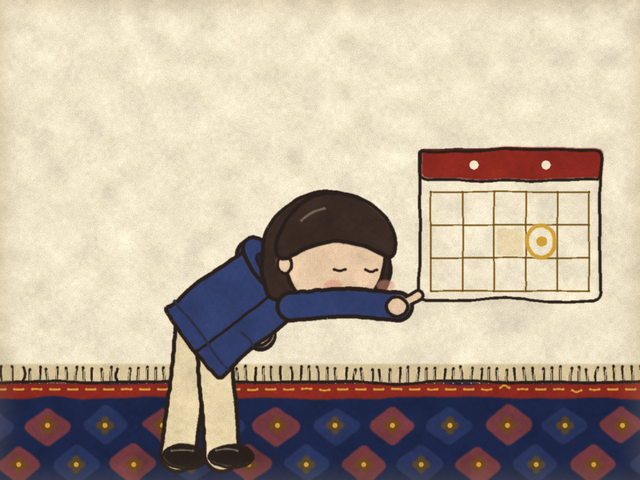
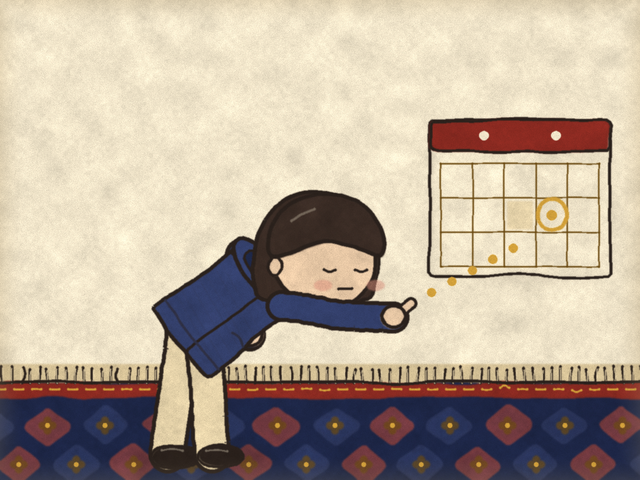
choice-maze: 場面・選択肢イラスト35枚
Claude-Session: https://claude.ai/code/session_01JTrs8fvjHSPRmaShvoSYrq

Changed region(s): [[0.2188, 0.2188, 0.9688, 1.0], [0.4688, 0.4375, 0.5, 0.4688]]

diff --git a/output/choice-maze/tools/draw_scenes.py b/output/choice-maze/tools/draw_scenes.py
@@ -800,12 +800,12 @@ class Person:
                 cv.line([(mx + d * 0.05 * H * math.cos(ang), my + 0.05 * H * math.sin(ang)),
                          (mx + d * 0.22 * H * math.cos(ang), my + 0.22 * H * math.sin(ang))], width=lw * 0.8)
         elif e == 'breath':
-            mx, my = x + d * 0.48 * H, y + 0.25 * H
-            for k, oy in enumerate((-0.12, 0.0, 0.12)):
-                pts = [(mx + d * (0.05 + i * 0.07) * H, my + oy * H * (1 + i * 0.25) + math.sin(i * 1.7) * 0.025 * H)
-                       for i in range(5)]
-                cv.line(pts, width=0.06 * H + 2 * lw * 0.6, color='sumi', amp=0.3)
-                cv.line(pts, width=0.06 * H, color='kinari', amp=0, raw=True)
+            mx, my = x + d * 0.62 * H, y + 0.28 * H
+            for k, oy in enumerate((-0.16, 0.0, 0.16)):
+                pts = [(mx + d * (0.02 + i * 0.1) * H, my + oy * H * (1 + i * 0.3) + math.sin(i * 1.9) * 0.03 * H)
+                       for i in range(6)]
+                cv.line(pts, width=0.07 * H + 2 * lw * 0.7, color='sumi', amp=0.3)
+                cv.line(pts, width=0.07 * H, color='kinari', amp=0, raw=True)
         elif e == 'moya':
             cx, cy = x + 0.1 * H, y - 0.85 * H
             blob = []
@@ -1310,12 +1310,13 @@ def scene_s2_2(path):
     ball(cv, 820, 660, 34, 'soccer')
     ball(cv, 470, 680, 30, 'basket')
     # tangled net heap
-    heap = [(760, 640), (780, 590), (830, 570), (880, 585), (905, 640)]
+    heap = [(740, 648), (770, 618), (820, 608), (880, 616), (930, 632), (920, 656), (760, 662)]
     cv.shape(heap, fill=mix('kinari', 'kinari2', 0.5), lw=5, amp=2.0)
-    for k in range(6):
-        cv.line([(770 + k * 24, 640), (800 + k * 18, 575)], width=2.5, color='kinink', amp=0.8)
-        cv.line([(765 + k * 22, 585 + k * 2), (900 - k * 4, 640 - k * 10)], width=2.5, color='kinink', amp=0.8)
-    cv.line(bez((900, 630), (940, 660), (980, 640)), width=4, color='kinink', amp=1)
+    for k in range(7):
+        cv.line([(752 + k * 26, 660), (772 + k * 24, 612)], width=2.5, color='kinink', amp=0.6)
+    for yy in (626, 642):
+        cv.line([(748, yy + 6), (924, yy)], width=2.5, color='kinink', amp=0.8)
+    cv.line(bez((925, 645), (960, 676), (1000, 660)), width=4, color='kinink', amp=1)
     # two teammates, arms crossed, worried, on the right
     cross = {'L': dict(hand=(0.55, 0.42), bend=0.2, front=True), 'R': dict(hand=(-0.55, 0.42), bend=0.2, front=True)}
     person(cv, 'nakama', 1000, 690, 130, facing='l', brows='worry', mouth='frown', arms=cross)
@@ -1408,7 +1409,6 @@ def scene_s3_2(path):
     wall(cv, FLOOR, color=mix('ai2', 'ai', 0.4), panel=False)
     cv.line([(-10, FLOOR - 60), (SW + 10, FLOOR - 60)], width=4, color=mix('ai2', 'kinari', 0.2))
     # warm lamp so it is not too dark
-    cv.fill([(1072, 262), (1168, 262), (1250, FLOOR - 4), (990, FLOOR - 4)], mix('ai2', 'kin', 0.28), tex=0.04)
     cv.tube([(1120, 260), (1120, FLOOR - 10)], 10, 'kinink')
     cv.shape([(1060, 260), (1180, 260), (1150, 180), (1090, 180)], fill='kin')
     window(cv, 120, 80, 330, 270, night=True)
@@ -1421,8 +1421,6 @@ def scene_s3_2(path):
         cv.shape(scr, fill='kinari', line=False)
         c = rot_pts([(h[0] + 62, h[1] - 112)], h[0], h[1], 6)[0]
         bubble(cv, c[0], c[1], 56, 46, kind='spiky', content='none', fill='akane2', lwm=0.8)
-        for k in range(3):
-            cv.line([(c[0] - 24 + k * 22, c[1] - 9), (c[0] - 14 + k * 22, c[1] + 9)], width=5, color='kinari')
         c2 = rot_pts([(h[0] + 48, h[1] - 32)], h[0], h[1], 6)[0]
         bubble(cv, c2[0], c2[1], 40, 18, kind='round', tail=(-1, 0.4), content='dots', fill='kinari2', lwm=0.7)
     kid(cv, 470, 690, 160, facing='r', eyes='squeeze', brows='angry', mouth='tight', red=True,
@@ -1503,9 +1501,15 @@ def ch_s1_1_c(path):   # にげる: ドアからそっと出ていく後ろ姿
 
 def ch_s1_1_d(path):   # あやまって、いつ出せるか伝える
     cv = cbase(204)
-    calendar(cv, 420, 150, 180, 150, mark=(3, 1), today=(2, 1))
-    bow_kid(cv, 200, arms={'L': dict(hand=(0.08, 0.72)),
-                           'R': dict(hand=(0.95, 0.0), bend=-0.2, handshape='point', pdir=(1, -0.55))})
+    cx, cy = calendar(cv, 430, 120, 180, 156, mark=(3, 1), today=(2, 1))
+    p = bow_kid(cv, 190, arms={'L': dict(hand=(0.08, 0.72)),
+                               'R': dict(hand=(1.0, 0.1), bend=-0.2, handshape='point', pdir=(1, -0.8))})
+    h = p.hand('R')
+    fx, fy = h[0] + 0.2 * KH * 0.78, h[1] - 0.2 * KH * 0.62
+    n = 6
+    for k in range(1, n):
+        t = k / n
+        cv.dot(fx + (cx - 18 - fx) * t, fy + (cy + 22 - fy) * t, 4.5, color='kin')
     cv.save(path)
 
 
@@ -1786,8 +1790,6 @@ def ch_s3_2_a(path):   # 強い指で打つ＋とげとげ吹き出し
         cv.line([(350 + 30 * math.cos(ang), 300 + 30 * math.sin(ang)),
                  (350 + 54 * math.cos(ang), 300 + 54 * math.sin(ang))], width=3.5, color='red')
     bubble(cv, 490, 120, 112, 84, kind='spiky', content='none', fill='akane2', lwm=0.9)
-    for k in range(3):
-        cv.line([(456 + k * 30, 108), (468 + k * 30, 132)], width=5, color='kinari')
     cv.save(path)
 
 
